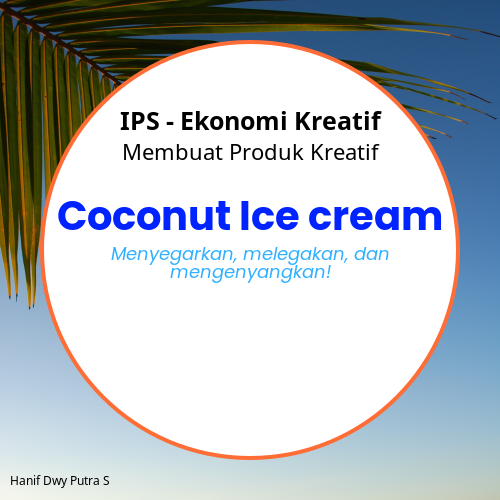
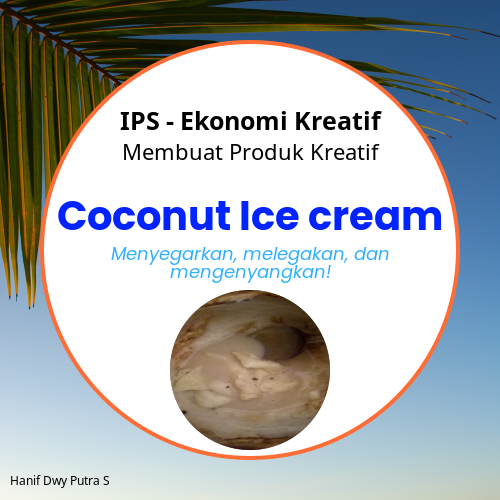
feat: print coconut image

Changed region(s): [[0.33, 0.57, 0.66, 0.9]]

diff --git a/index.js b/index.js
@@ -5,6 +5,7 @@ async function generate() {
 	// prepare
 	const canvas = new Canvas(500, 500);
 	const image = await resolveImage('./pexels.jpg');
+	const kelapa = await resolveImage('./kelapa.jpeg');
 
 	/** Set background */
 	canvas.printImage(image, 0, 0, 500, 500);
@@ -46,6 +47,9 @@ async function generate() {
 	.setTextFont('bold 40px Poppins')
 	.setTextAlign('center')
 	.printText('Coconut Ice cream', 500/2, (500/2)-20);
+
+	/** Print coconut image */
+	canvas.printCircularImage(kelapa, 500/2, (500/2)+120, 80);
 
 	/** Write file */
 	fs.writeFileSync('./result.png', await canvas.toBufferAsync('image/png'));
